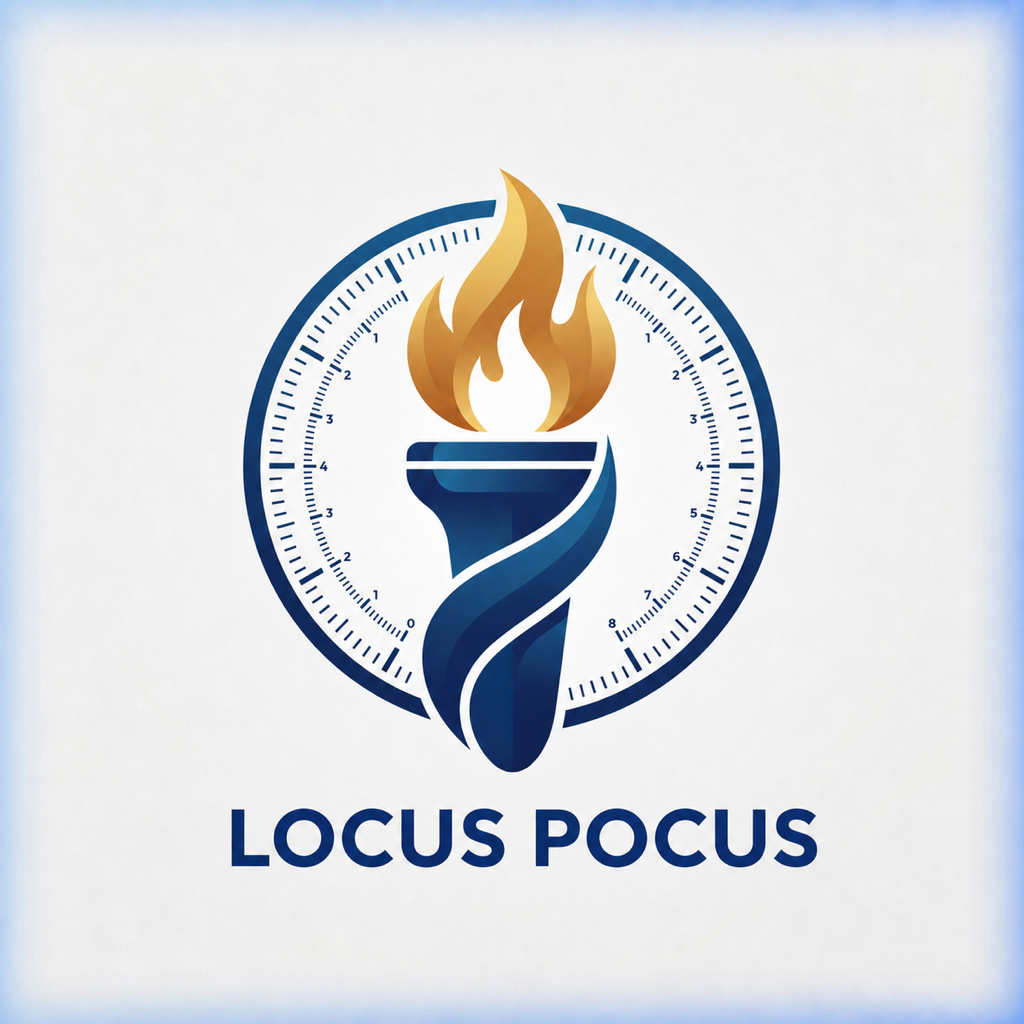
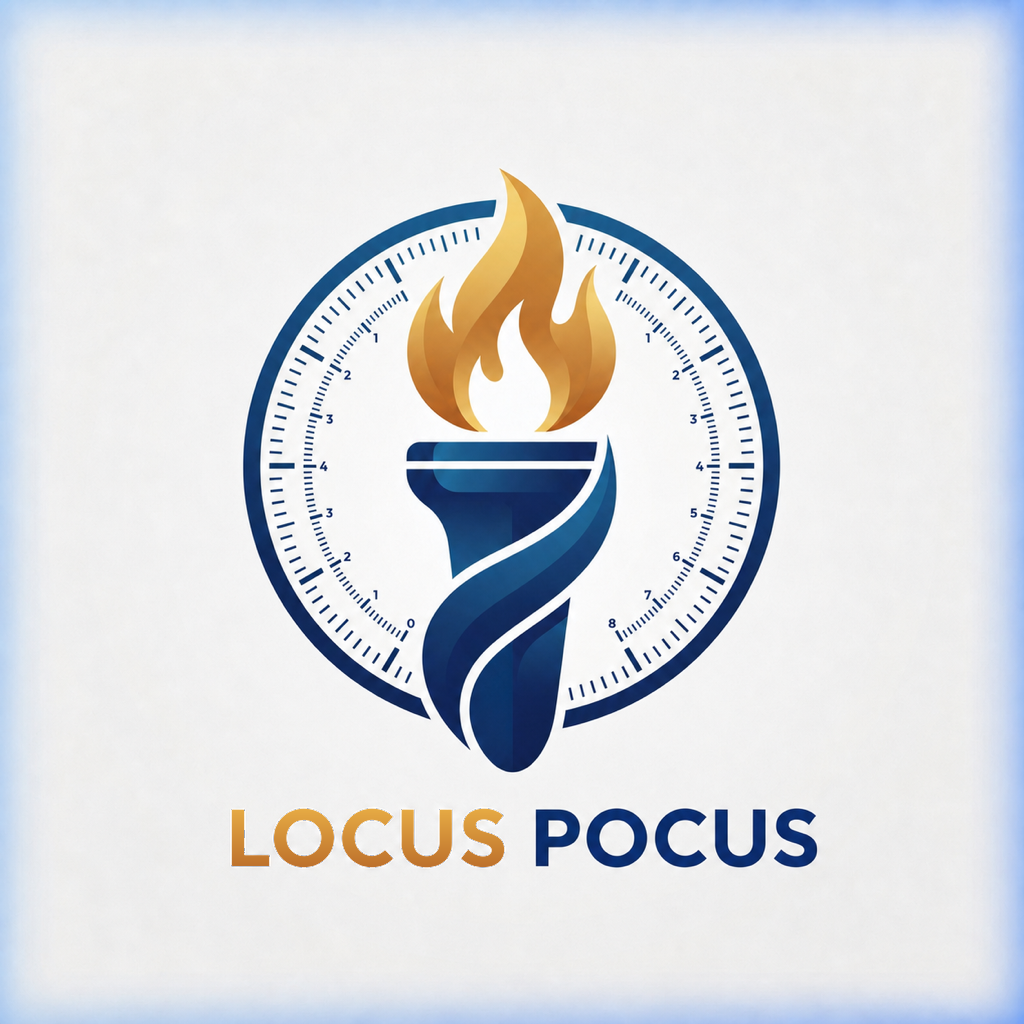
Anima la llama y resalta la marca LOCUS

Changed region(s): [[0.2188, 0.7812, 0.5, 0.8438]]

diff --git a/index.html b/index.html
@@ -51,10 +51,12 @@
                 </select>
             </div>
 
-            <!-- Logotipo Profesional Adaptable (Retorno a Inicio) -->
             <div class="header-logo" style="margin: 0 auto; max-width: 250px; width: 100%; filter: drop-shadow(0 4px 6px rgba(0,0,0,0.08));">
                 <a href="#/" aria-label="Volver al inicio" data-i18n-aria-label="nav.home" style="display: block; text-decoration: none;">
-                    <img src="assets/images/locus_pocus_branding.png" alt="LOCUS POCUS - Glosario y banco de mediciones" data-i18n-title="app.document_title" style="width: 100%; height: auto; display: block; border-radius: 12px; border: 2px solid var(--border-light); transition: filter 0.3s; background-color: #ffffff;" class="brand-logo-img">
+                    <div class="brand-logo-stage" style="position: relative; display: block;">
+                        <img src="assets/images/locus_pocus_branding.png" alt="LOCUS POCUS - Glosario y banco de mediciones" data-i18n-title="app.document_title" style="width: 100%; height: auto; display: block; border-radius: 12px; border: 2px solid var(--border-light); transition: filter 0.3s; background-color: #ffffff;" class="brand-logo-img">
+                        <img src="assets/images/locus_pocus_flame_overlay.png" alt="" aria-hidden="true" draggable="false" class="brand-logo-flame-layer" style="position: absolute; top: 0; left: 0; width: 100%; height: 100%; pointer-events: none; border-radius: 12px; display: block;">
+                    </div>
                 </a>
             </div>
         </header>

diff --git a/assets/css/styles.css b/assets/css/styles.css
@@ -1294,3 +1294,55 @@ body.dark-mode .protocol-step-marker:hover {
 .quiz-status {
     box-shadow: 0 2px 4px rgba(0,0,0,0.02);
 }
+
+/* --- LOGO FLAME ANIMATION (UI1) --- */
+.brand-logo-flame-layer {
+    position: absolute;
+    top: 0;
+    left: 0;
+    width: 100%;
+    height: 100%;
+    pointer-events: none;
+    opacity: 0;
+    transform-origin: 50% 35%;
+}
+
+.dark-mode .brand-logo-flame-layer {
+    filter: invert(0.9) hue-rotate(180deg) brightness(1.1) contrast(1.1);
+}
+
+.is-flame-animating .brand-logo-flame-layer {
+    animation: flame-flicker 520ms ease-in-out 1;
+    opacity: 1;
+}
+
+@keyframes flame-flicker {
+    0% {
+        transform: scale(1) translateY(0) rotate(0deg);
+    }
+    25% {
+        transform: scale(1.02, 1.05) translateY(-0.8%) rotate(-0.5deg);
+    }
+    50% {
+        transform: scale(0.98, 1.03) translateY(-0.4%) rotate(0.4deg);
+    }
+    75% {
+        transform: scale(1.01, 1.06) translateY(-0.6%) rotate(-0.3deg);
+    }
+    100% {
+        transform: scale(1) translateY(0) rotate(0deg);
+    }
+}
+
+@media (prefers-reduced-motion: reduce) {
+    .brand-logo-flame-layer {
+        animation: none !important;
+        transform: none !important;
+        opacity: 0 !important;
+    }
+    .is-flame-animating .brand-logo-flame-layer {
+        animation: none !important;
+        transform: none !important;
+        opacity: 0 !important;
+    }
+}

diff --git a/assets/js/app.js b/assets/js/app.js
@@ -15,6 +15,25 @@ document.addEventListener("DOMContentLoaded", async () => {
     }
 
     console.log("Aplicación POCUS Cardíaco inicializada correctamente.");
+
+    // Configurar la animación de la llama en el logotipo (UI1)
+    const headerLogoLink = document.querySelector(".header-logo a");
+    const logoStage = document.querySelector(".brand-logo-stage");
+    if (headerLogoLink && logoStage) {
+        headerLogoLink.addEventListener("click", () => {
+            if (window.matchMedia("(prefers-reduced-motion: reduce)").matches) {
+                return;
+            }
+            logoStage.classList.remove("is-flame-animating");
+            // Forzar reflow para reiniciar la animación
+            void logoStage.offsetWidth;
+            logoStage.classList.add("is-flame-animating");
+        });
+
+        logoStage.addEventListener("animationend", () => {
+            logoStage.classList.remove("is-flame-animating");
+        });
+    }
     
     // Iniciar la ruta actual al cargar la aplicación
     if (typeof Router !== "undefined") {

diff --git a/service-worker.js b/service-worker.js
@@ -1,5 +1,5 @@
 // Service Worker de POCUS Cardíaco para soporte sin conexión (Offline)
-const CACHE_NAME = 'pocus-cardiaco-cache-v17-c3d1-brand1-e1a-e1b-e1c-qa1-qa2-qa3-final';
+const CACHE_NAME = 'pocus-cardiaco-cache-v17-c3d1-brand1-e1a-e1b-e1c-qa1-qa2-qa3-final-logo2';
 const ASSETS_TO_CACHE = [
   './',
   './index.html',
@@ -31,6 +31,7 @@ const ASSETS_TO_CACHE = [
   './data/windows.json',
   './data/protocols.json',
   './assets/images/locus_pocus_branding.png',
+  './assets/images/locus_pocus_flame_overlay.png',
   './assets/icons/locus-pocus-apple-touch-icon-180.png',
   './assets/icons/locus-pocus-icon-192.png',
   './assets/icons/locus-pocus-icon-512.png',

diff --git a/tests/test_logo_flame_animation.py b/tests/test_logo_flame_animation.py
@@ -1,0 +1,199 @@
+import os
+import json
+import re
+import hashlib
+import colorsys
+from PIL import Image
+
+def test_ui1_html_accessible_logo():
+    # 1. La imagen principal continúa usando locus_pocus_branding.png.
+    # 2. La capa decorativa usa exactamente locus_pocus_flame_overlay.png.
+    # 3. La capa mantiene alt="", aria-hidden="true" y draggable="false".
+    path = "index.html"
+    assert os.path.exists(path)
+    with open(path, "r", encoding="utf-8") as f:
+        content = f.read()
+
+    # Main logo image
+    assert 'src="assets/images/locus_pocus_branding.png"' in content
+    
+    # Flame overlay image
+    assert 'src="assets/images/locus_pocus_flame_overlay.png"' in content
+
+    # Decorative layer attributes
+    flame_match = re.search(r'<img[^>]*class="brand-logo-flame-layer"[^>]*>', content)
+    assert flame_match is not None
+    flame_tag = flame_match.group(0)
+    assert 'alt=""' in flame_tag
+    assert 'aria-hidden="true"' in flame_tag
+    assert 'draggable="false"' in flame_tag
+
+def test_ui1_css_styles():
+    # 4. El CSS de UI1 ya no utiliza clip-path.
+    # 5. La animación conserva 520 ms, una iteración, los límites reducidos y prefers-reduced-motion.
+    path = "assets/css/styles.css"
+    assert os.path.exists(path)
+    with open(path, "r", encoding="utf-8") as f:
+        css = f.read()
+
+    assert ".brand-logo-flame-layer" in css
+    # Ensure no clip-path is present in UI1 classes
+    layer_block_match = re.search(r'\.brand-logo-flame-layer\s*\{([^}]+)\}', css)
+    if layer_block_match:
+        layer_block = layer_block_match.group(1)
+        assert "clip-path" not in layer_block
+
+    # Animation properties
+    assert "520ms" in css
+    assert "infinite" not in css.lower()
+
+    # Movement limits verification inside @keyframes flame-flicker
+    start_idx = css.find("@keyframes flame-flicker")
+    end_idx = css.find("@media (prefers-reduced-motion: reduce)", start_idx)
+    assert start_idx != -1
+    assert end_idx != -1
+    assert end_idx > start_idx
+
+    keyframes_block = css[start_idx:end_idx]
+    transforms = re.findall(r'transform:\s*([^;]+);', keyframes_block)
+    for t in transforms:
+        # Scale limits (sx <= 1.02, sy <= 1.06)
+        scale_match = re.search(r'scale\(([^)]+)\)', t)
+        if scale_match:
+            scale_vals = [float(s.strip()) for s in scale_match.group(1).split(',')]
+            if len(scale_vals) == 2:
+                sx, sy = scale_vals
+                assert sx <= 1.02, f"Scale X {sx} exceeds 1.02 limit"
+                assert sy <= 1.06, f"Scale Y {sy} exceeds 1.06 limit"
+        
+        # TranslateY limit (val <= 0.8%)
+        translate_match = re.search(r'translateY\(([^)]+)\)', t)
+        if translate_match:
+            t_val_str = translate_match.group(1)
+            if t_val_str.endswith('%'):
+                t_val = abs(float(t_val_str.replace('%', '')))
+                assert t_val <= 0.8, f"translateY {t_val}% exceeds 0.8% limit"
+
+        # Rotation limit (val <= 0.6deg)
+        rotate_match = re.search(r'rotate\(([^)]+)\)', t)
+        if rotate_match:
+            r_val_str = rotate_match.group(1)
+            if r_val_str.endswith('deg'):
+                r_val = abs(float(r_val_str.replace('deg', '')))
+                assert r_val <= 0.6, f"rotation {r_val}deg exceeds 0.6deg limit"
+
+    # prefers-reduced-motion
+    assert "prefers-reduced-motion: reduce" in css
+
+def test_ui1_flame_overlay_image():
+    # 6. El overlay mide 1024 × 1024, es RGBA y tiene esquinas transparentes.
+    # 7. Todos los píxeles con alfa distinto de cero del overlay están dentro de x=390..629, y=150..444.
+    # 8. Existe una cantidad material de píxeles visibles de llama y no es una imagen vacía.
+    path = "assets/images/locus_pocus_flame_overlay.png"
+    assert os.path.exists(path)
+    img = Image.open(path)
+    assert img.size == (1024, 1024)
+    assert img.mode == "RGBA"
+
+    # Check corners are transparent
+    assert img.getpixel((0, 0))[3] == 0
+    assert img.getpixel((0, 1023))[3] == 0
+    assert img.getpixel((1023, 0))[3] == 0
+    assert img.getpixel((1023, 1023))[3] == 0
+
+    visible_count = 0
+    for y in range(1024):
+        for x in range(1024):
+            r, g, b, a = img.getpixel((x, y))
+            if a != 0:
+                visible_count += 1
+                # Must be strictly within x=390..629, y=150..444
+                assert 390 <= x <= 629, f"Non-zero alpha pixel x={x} is outside 390..629"
+                assert 150 <= y <= 444, f"Non-zero alpha pixel y={y} is outside 150..444"
+
+    assert visible_count > 5000, "Flame overlay has too few visible pixels"
+
+def test_ui1_main_logo_integrity_and_recolor():
+    # 9. El logotipo principal mide 1024 × 1024 y conserva el hash externo exacto.
+    # 11. Dentro de las regiones LOCUS existe una cantidad significativa de píxeles dorados y no quedan letras predominantemente azules.
+    # 12. POCUS y todos los elementos fuera de las regiones autorizadas permanecen intactos mediante los hashes indicados.
+    path = "assets/images/locus_pocus_branding.png"
+    assert os.path.exists(path)
+    img = Image.open(path).convert("RGB")
+    assert img.size == (1024, 1024)
+
+    hasher = hashlib.sha256()
+    gold_count = 0
+    blue_count = 0
+
+    for y in range(1024):
+        for x in range(1024):
+            r, g, b = img.getpixel((x, y))
+            # Region LOCUS: x=220..514, y=795..879
+            if 220 <= x <= 514 and 795 <= y <= 879:
+                h, s, v = colorsys.rgb_to_hsv(r/255.0, g/255.0, b/255.0)
+                # Check for gold/orange pixels
+                if r > b and r > 120 and g > 50:
+                    gold_count += 1
+                # Check for remaining blue text pixels
+                if 0.52 <= h <= 0.72 and s >= 0.15 and v <= 0.95:
+                    blue_count += 1
+            else:
+                hasher.update(bytes([r, g, b]))
+
+    computed_hash = hasher.hexdigest()
[1 lines of base64/hex data omitted]
+    assert gold_count > 1000, "Too few golden pixels in LOCUS region of logo"
+    assert blue_count < 100, "Too many blue pixels remaining in LOCUS region of logo"
+
+def test_ui1_social_preview_integrity_and_recolor():
+    # 10. La vista previa mide 1200 × 630 y conserva el hash externo exacto.
+    # 11 & 12. Recolor and integrity verification
+    path = "assets/images/locus_pocus_social_preview_1200x630.png"
+    assert os.path.exists(path)
+    img = Image.open(path).convert("RGB")
+    assert img.size == (1200, 630)
+
+    hasher = hashlib.sha256()
+    gold_count = 0
+    blue_count = 0
+
+    for y in range(630):
+        for x in range(1200):
+            r, g, b = img.getpixel((x, y))
+            # Region LOCUS: x=390..599, y=470..529
+            if 390 <= x <= 599 and 470 <= y <= 529:
+                h, s, v = colorsys.rgb_to_hsv(r/255.0, g/255.0, b/255.0)
+                if r > b and r > 120 and g > 50:
+                    gold_count += 1
+                if 0.52 <= h <= 0.72 and s >= 0.15 and v <= 0.95:
+                    blue_count += 1
+            else:
+                hasher.update(bytes([r, g, b]))
+
+    computed_hash = hasher.hexdigest()
[1 lines of base64/hex data omitted]
+    assert gold_count > 400, "Too few golden pixels in LOCUS region of social preview"
+    assert blue_count < 50, "Too many blue pixels remaining in LOCUS region of social preview"
+
+def test_ui1_service_worker():
+    # 13. CACHE_NAME coincide exactamente con el sufijo -logo2.
+    # 14. El nuevo overlay está incluido en ASSETS_TO_CACHE.
+    path = "service-worker.js"
+    assert os.path.exists(path)
+    with open(path, "r", encoding="utf-8") as f:
+        content = f.read()
+
+    cache_match = re.search(r"const CACHE_NAME = '([^']+)';", content)
+    assert cache_match is not None
+    assert cache_match.group(1) == "pocus-cardiaco-cache-v17-c3d1-brand1-e1a-e1b-e1c-qa1-qa2-qa3-final-logo2"
+
+    assert "./assets/images/locus_pocus_flame_overlay.png" in content
+
+def test_ui1_measurements_clinical_intact():
+    # 15. data/measurements.json conserva 101 registros.
+    path = "data/measurements.json"
+    assert os.path.exists(path)
+    with open(path, "r", encoding="utf-8") as f:
+        data = json.load(f)
+    assert len(data) == 101

diff --git a/tests/test_terminology_measurements_qa3.py b/tests/test_terminology_measurements_qa3.py
@@ -195,4 +195,4 @@ def test_qa3_service_worker_cache():
 
     cache_match = re.search(r"const CACHE_NAME = '([^']+)';", content)
     assert cache_match is not None
-    assert cache_match.group(1) == "pocus-cardiaco-cache-v17-c3d1-brand1-e1a-e1b-e1c-qa1-qa2-qa3-final"
+    assert cache_match.group(1).startswith("pocus-cardiaco-cache-v17-c3d1-brand1-e1a-e1b-e1c-qa1-qa2-qa3-final")
